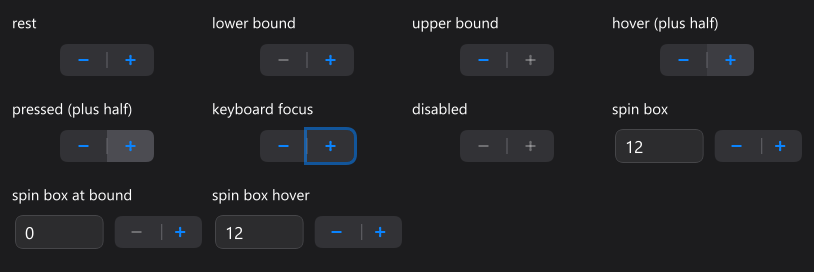
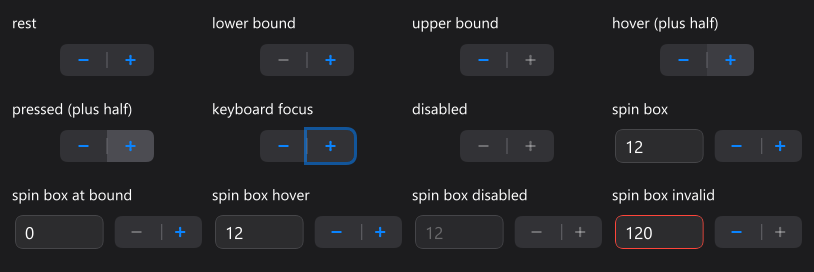
Cupertino spin box: disabled and invalid states
The Cupertino spin box ignored the field's enabled and invalid flags that the Windows, Linux and Android looks honour. It now passes them to the rounded field (30 percent ink and fill when disabled, a systemRed edge when invalid) and disables the stepper pill's halves.

diff --git a/scripts/cupertino_spec_check.py b/scripts/cupertino_spec_check.py
@@ -385,7 +385,7 @@ def run():
         "slider": [(0, 3, "focus"), (0, 4, "disabled")],
         "text_edit": [(1, 3, "focus"), (1, 5, "disabled"), (1, 6, "invalid"), (1, 7, "read only")],
         "search_field": [(0, 3, "focus"), (0, 4, "disabled")],
-        "spin_edit": [(0, 3, "hover"), (0, 4, "pressed"), (0, 5, "focus"), (0, 6, "disabled")],
+        "spin_edit": [(0, 3, "hover"), (0, 4, "pressed"), (0, 5, "focus"), (0, 6, "disabled"), (7, 10, "spin box disabled"), (7, 11, "spin box invalid")],
         "combo_box": [(0, 1, "hover"), (0, 2, "pressed"), (0, 3, "focus")],
         "dialog": [(2, 4, "pressed button")],
         "page_control": [(5, 8, "bar pressed"), (5, 9, "bar disabled"), (0, 3, "strip focus"), (0, 4, "strip disabled")],
